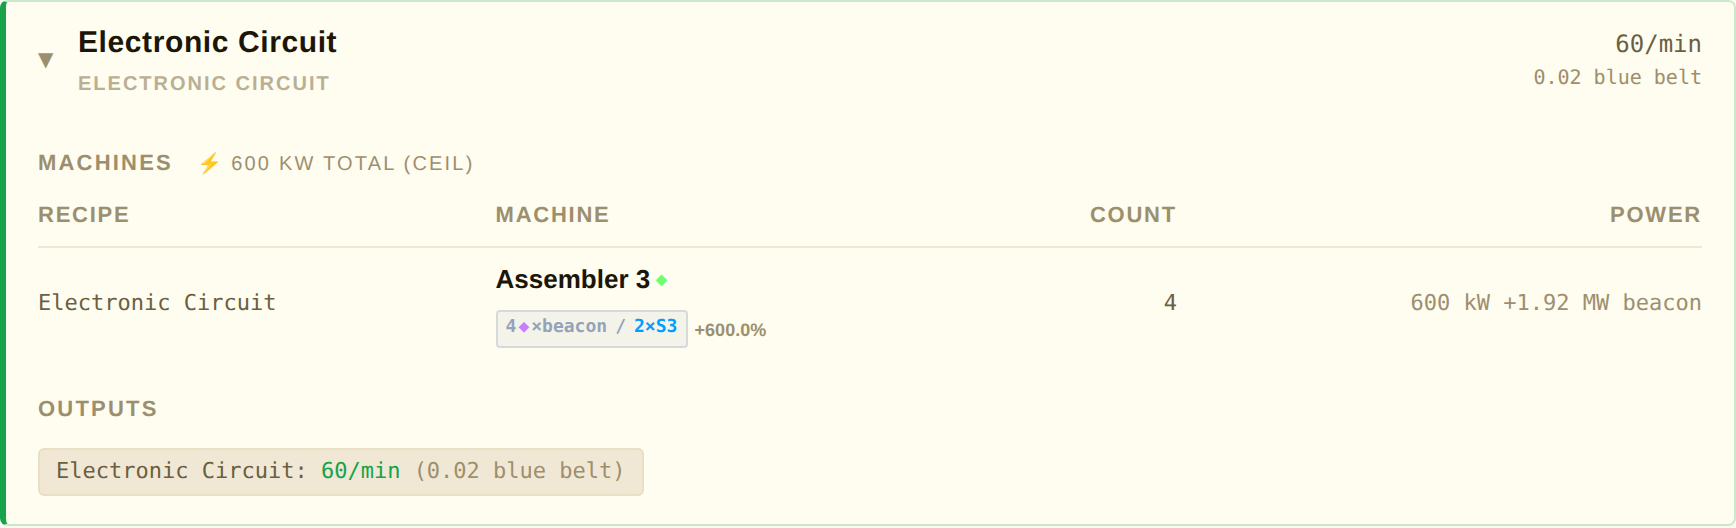
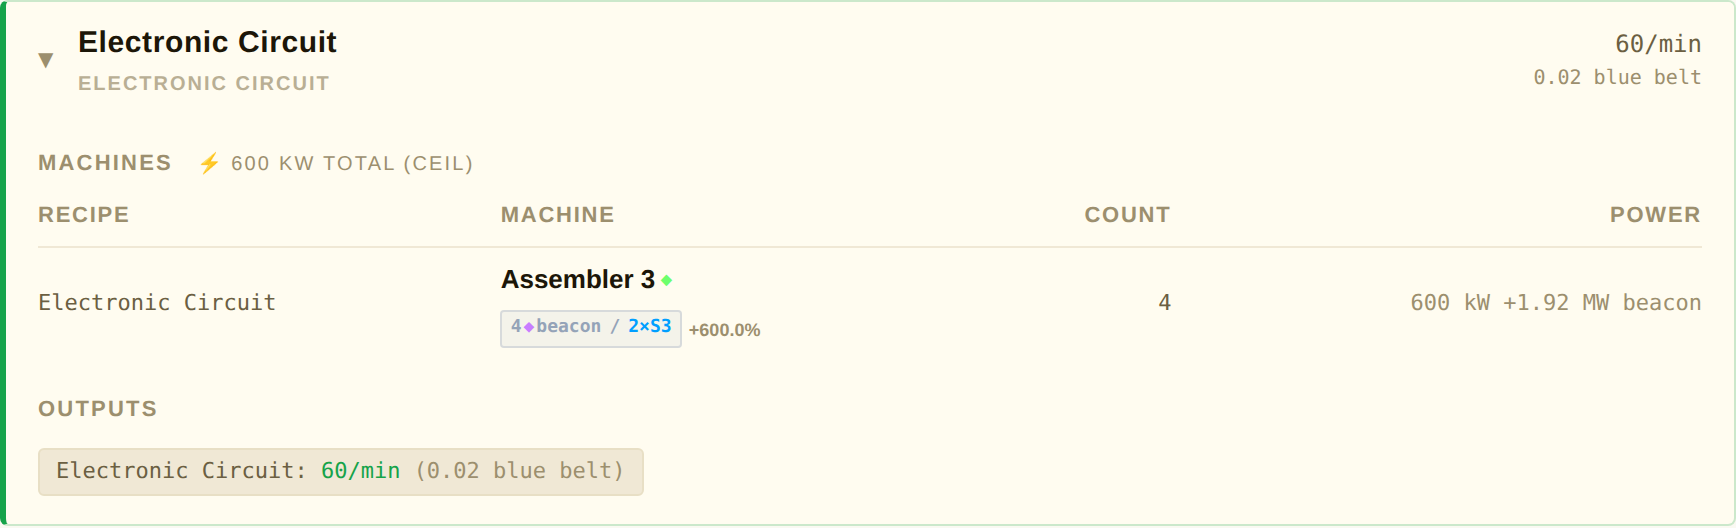
Remove × before beacon in chip label
The × was causing an unfavorable alignment comparison with the
adjacent quality ◆. The count alone is sufficient context.

https://claude.ai/code/session_01SyKx24fZjBrdm6oV2dN8BW

diff --git a/dev/dashboard.html b/dev/dashboard.html
@@ -638,7 +638,7 @@ function bcnChip(b, housingQ) {
     const qdot  = m.quality !== 'normal' ? `<span class="qdot q-${m.quality}">◆</span>` : '';
     return `<span style="color:${color}">${m.count}×${abbr}${m.tier}${qdot}</span>`;
   }).join(' ');
-  return `<span class="bcn-chip">${b.count}${houseDot}×beacon<span class="bcn-sep">/</span>${modsHtml}</span>`;
+  return `<span class="bcn-chip">${b.count}${houseDot} beacon<span class="bcn-sep">/</span>${modsHtml}</span>`;
 }
 
 // ── State ────────────────────────────────────────────────────────────────────
